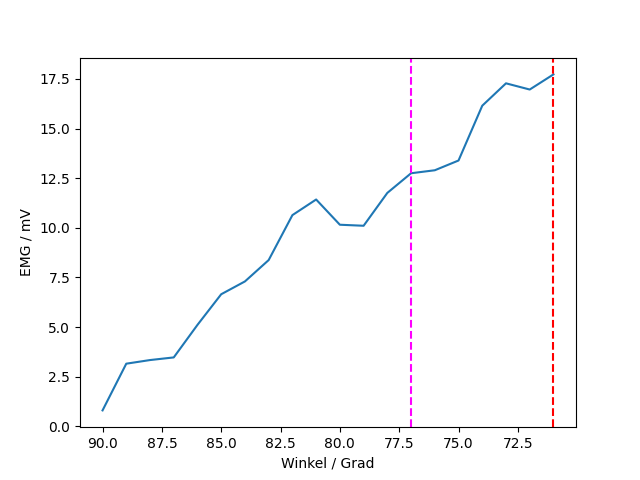
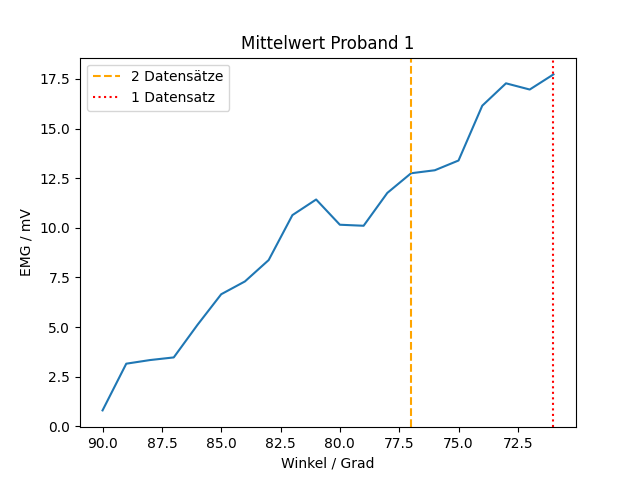
Ende Gelände

Changed region(s): [[0.375, 0.0625, 0.6562, 0.125], [0.1875, 0.125, 0.3438, 0.2188]]

diff --git a/main.py b/main.py
@@ -128,17 +128,17 @@ def process_angle(data, fs, label):
 
     return data
 
-# EMG im Bezug auf Winkel mitteln, wobei hierbei weiter diskretisiert wird. Rückgabe: längster Winkel-Vektor und gemitteltes EMG
-def average_angle_emg(data_person):
-    angle_len, avg_emg, avg_angle = [], [], []
+# EMG im Bezug auf Winkel mitteln, wobei hierbei weiter diskretisiert wird
+def average_angle_emg(emg_avg, angle_avg):
+    angle_len, emg_avg_all, angle_avg_all = [], [], []
     index_longest, length_longest, angle_increment = 0, 0, 1
     windows, window_length = [], [] # Anzahl der Fenster für jeden Datensatz; Anzahl der Indize pro Fenster
     angle_end = [] # Winkel, bei welchen von 3 auf 2 bzw. 1 Array gewechselt wird
     first_1, first_2 = 0, 0
-    
+
     # Längstes Array und Länge jedes einzelnen
     for dataset in range(3):
-        length = len(data_person[dataset])
+        length = len(angle_avg[dataset])
         angle_len.append(length)
 
         if length >= length_longest:
@@ -147,7 +147,7 @@ def average_angle_emg(data_person):
 
     # Anzahl der Iterationsschritt (1 Grad) ermitteln
     for dataset in range(3):
-        windows.append(int((90 - data_person[dataset]["angle"][angle_len[dataset] - 1]) / angle_increment))
+        windows.append(int((90 - angle_avg[dataset][angle_len[dataset] - 1]) / angle_increment))
         window_length.append(int(angle_len[dataset] / windows[dataset]))
 
     # EMG Daten mitteln, mit Abfrage welche noch verfügbar sind (noch nicht fertig)
@@ -158,62 +158,63 @@ def average_angle_emg(data_person):
             index.append(window_counter * window_length[dataset])
 
         # Alle 3 mitteln
-        if index[0] <= angle_len[0] and index[1] <= angle_len[1] and index[2] <= angle_len[2]: 
-            avg_emg.append((data_person[0]["emg"][index[0]] + data_person[1]["emg"][index[1]] + data_person[2]["emg"][index[2]]) / 3)
+        if index[0] < angle_len[0] and index[1] < angle_len[1] and index[2] < angle_len[2]: 
+            emg_avg_all.append((emg_avg[0][index[0]] + emg_avg[1][index[1]] + emg_avg[2][index[2]]) / 3)
             
         # Nur mehr 2 mitteln
-        elif index[0] <= angle_len[0] and index[1] <= angle_len[1]: 
-            avg_emg.append((data_person[0]["emg"][index[0]] + data_person[1]["emg"][index[1]]) / 2)
+        elif index[0] < angle_len[0] and index[1] < angle_len[1]: 
+            emg_avg_all.append((emg_avg[0][index[0]] + emg_avg[1][index[1]]) / 2)
             
             if first_1 == 0:
                 angle_end.append(90 - window_counter * angle_increment)
                 first_1 = 1
             
-        elif index[1] <= angle_len[1] and index[2] <= angle_len[2]: 
-            avg_emg.append((data_person[1]["emg"][index[1]] + data_person[2]["emg"][index[2]]) / 2)
+        elif index[1] < angle_len[1] and index[2] < angle_len[2]: 
+            emg_avg_all.append((emg_avg[1][index[1]] + emg_avg[2][index[2]]) / 2)
 
             if first_1 == 0:
                 angle_end.append(90 - window_counter * angle_increment)
                 first_1 = 1
 
-        elif index[0] <= angle_len[0] and index[2] <= angle_len[2]: 
-            avg_emg.append((data_person[0]["emg"][index[0]] + data_person[2]["emg"][index[2]]) / 2)
+        elif index[0] < angle_len[0] and index[2] < angle_len[2]: 
+            emg_avg_all.append((emg_avg[0][index[0]] + emg_avg[2][index[2]]) / 2)
 
             if first_1 == 0:
                 angle_end.append(90 - window_counter * angle_increment)
                 first_1 = 1
 
         # Nur mehr 1 Array verfügbar
-        elif index[0] <= angle_len[0]: 
-            avg_emg.append(data_person[0]["emg"][index[0]])
+        elif index[0] < angle_len[0]: 
+            emg_avg_all.append(emg_avg[0][index[0]])
 
             if first_2 == 0:
                 angle_end.append(90 - window_counter * angle_increment)
                 first_2 = 1
             
-        elif index[1] <= angle_len[1]: 
-            avg_emg.append(data_person[1]["emg"][index[1]])
+        elif index[1] < angle_len[1]: 
+            emg_avg_all.append(emg_avg[1][index[1]])
 
             if first_2 == 0:
                 angle_end.append(90 - window_counter * angle_increment)
                 first_2 = 1
             
-        elif index[2] <= angle_len[2]: 
-            avg_emg.append(data_person[2]["emg"][index[2]])
+        elif index[2] < angle_len[2]: 
+            emg_avg_all.append(emg_avg[2][index[2]])
             
             if first_2 == 0:
                 angle_end.append(90 - window_counter * angle_increment)
                 first_2 = 1
             
-        avg_angle.append(90 - window_counter * angle_increment)
-
-    return avg_emg, avg_angle, angle_end  
+        angle_avg_all.append(90 - window_counter * angle_increment)
+        
+    return emg_avg_all, angle_avg_all, angle_end  
 
 # ---------------------------------------------------
 # ---------------------------------------------------
 
 data_hamstring = []
 emg_avg, angle_avg, angle_end, index_end = [], [], [], []
+emg_avg_all, angle_avg_all, angle_end_all = [], [], []
 column_names = ["angle", "a_x", "a_y", "a_z", "emg", "time"]
 dataset_path, dataset_name = 0, 0
 
@@ -240,10 +241,13 @@ for person in range(3):
 
         # Angle_Emg_Avg mitteln
         if dataset == 2:
-            emg_avg_p, angle_avg_p, angle_end_p = average_angle_emg(data_hamstring[person])
+            # Listen mit EMG bzw. Winkel aller 3 Datensätze
+            emg_all = [data_hamstring[person][0]["emg"], data_hamstring[person][1]["emg"], data_hamstring[person][2]["emg"]]
+            angle_all = [data_hamstring[person][0]["angle"], data_hamstring[person][1]["angle"], data_hamstring[person][2]["angle"]]
+
+            emg_avg_p, angle_avg_p, angle_end = average_angle_emg(emg_all, angle_all)
             emg_avg.append(emg_avg_p)
             angle_avg.append(angle_avg_p)
-            angle_end.append(angle_end_p)
 
             # Plot
             directory = os.path.join(os.getcwd(), "images")
@@ -253,9 +257,32 @@ for person in range(3):
             plt.figure()
             plt.plot(angle_avg[person], emg_avg[person])
             plt.gca().invert_xaxis() # x-Achse mit abnehmenden Werten
-            plt.axvline(angle_end[person][0], color = "magenta", linestyle = "dashed")   
-            plt.axvline(angle_end[person][1], color = "red", linestyle = "dashed")   
+            plt.axvline(angle_end[0], color = "orange", linestyle = "dashed", label = "2 Datensätze")   
+            plt.axvline(angle_end[1], color = "red", linestyle = "dotted", label = "1 Datensatz")  
+            plt.legend(loc='upper left')
+            plt.title("Mittelwert Proband " + str(person + 1))
             plt.xlabel("Winkel / Grad")
             plt.ylabel("EMG / mV")
             plt.savefig(path)
             plt.close()
+    
+    # Angle_Emg_Avg aller Personen mitteln
+    if person == 2:
+        emg_avg_all, angle_avg_all, angle_end_all = average_angle_emg(emg_avg, angle_avg)
+
+        # Plot
+        directory = os.path.join(os.getcwd(), "images")
+        directory = os.path.join(directory, "result")
+        path = os.path.join(directory, "result_angle_emg_avg_all.png")
+
+        plt.figure()
+        plt.plot(angle_avg_all, emg_avg_all)
+        plt.gca().invert_xaxis() # x-Achse mit abnehmenden Werten
+        plt.axvline(angle_end_all[0], color = "orange", linestyle = "dashed", label = "2 Datensätze")   
+        plt.axvline(angle_end_all[1], color = "red", linestyle = "dotted", label = "1 Datensatz")   
+        plt.legend(loc='upper left')
+        plt.title("Mittelwert aller 3 Probanden")
+        plt.xlabel("Winkel / Grad")
+        plt.ylabel("EMG / mV")
+        plt.savefig(path)
+        plt.close()
